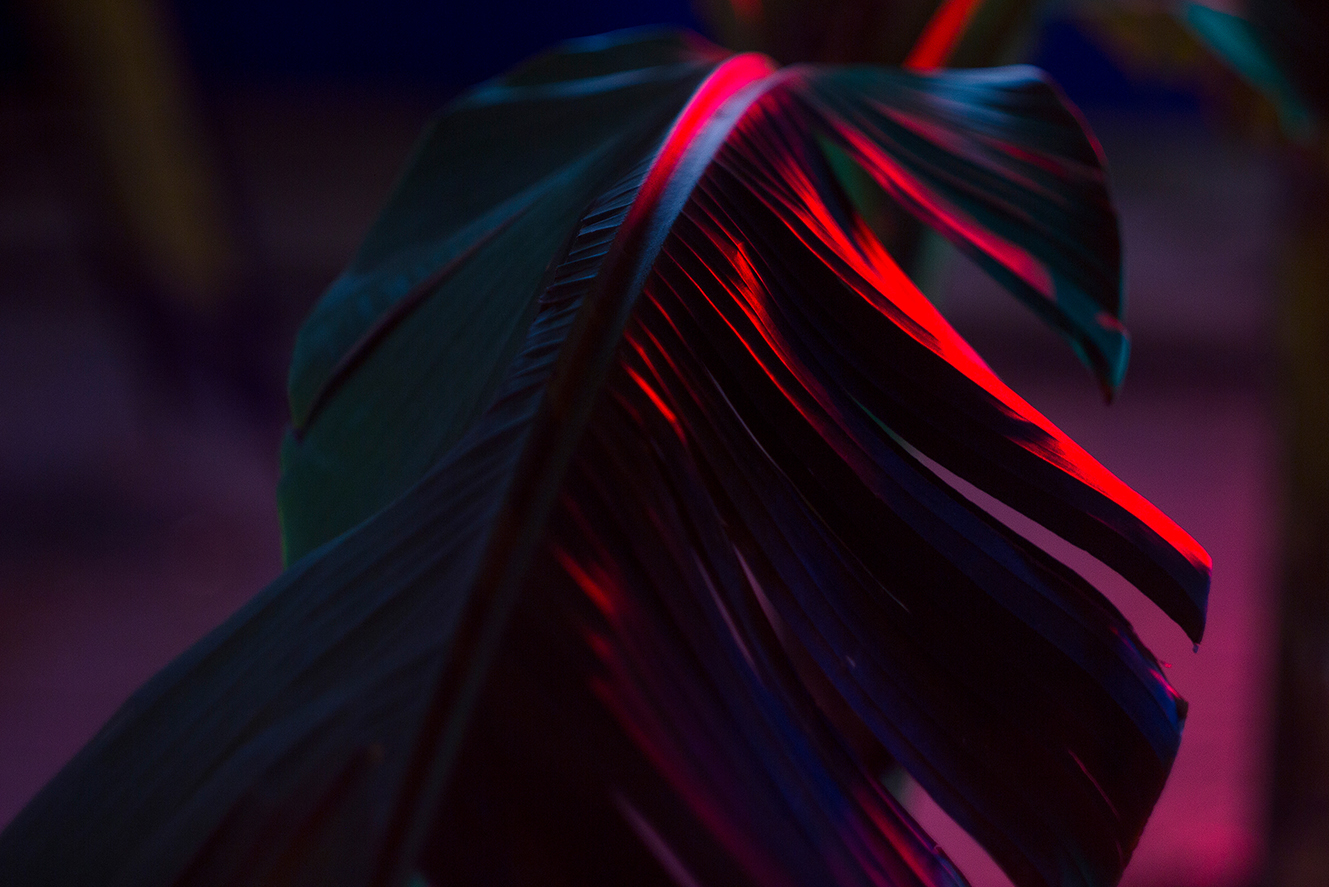
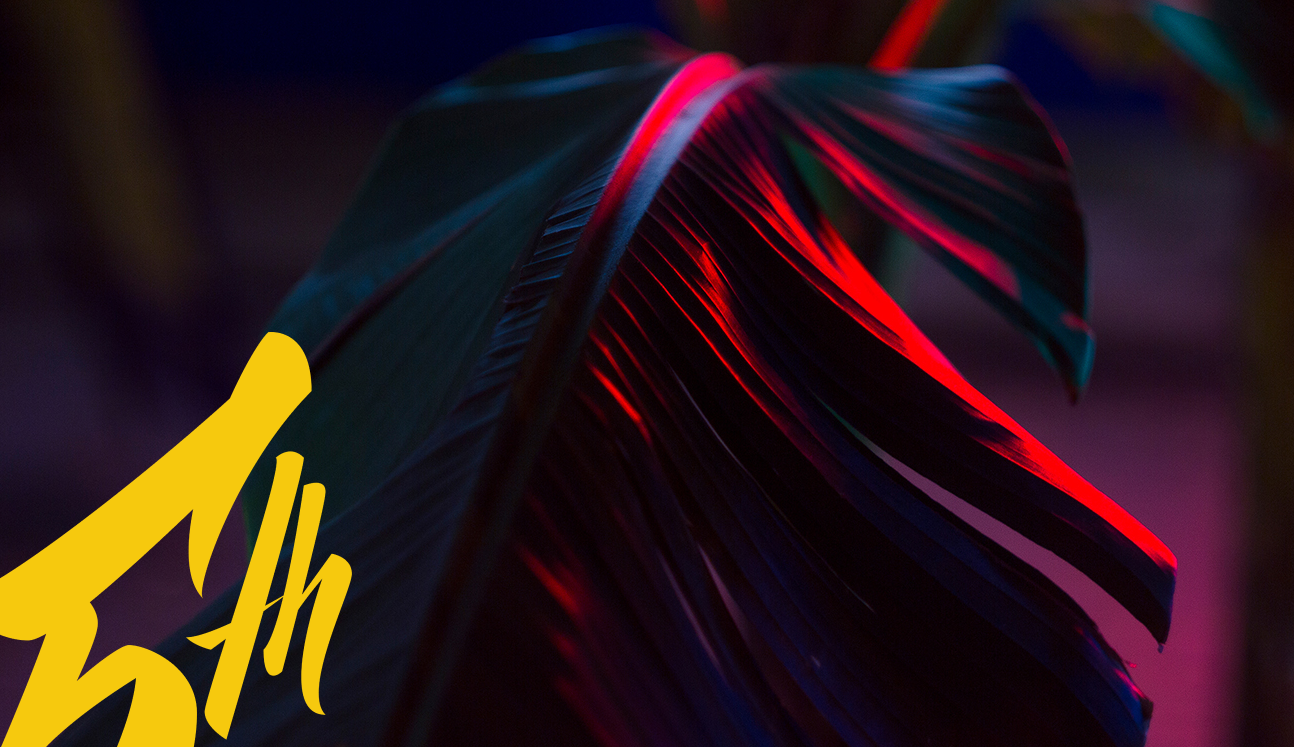
Make abount slide

diff --git a/src/components/NavFooter/NavFooter.js b/src/components/NavFooter/NavFooter.js
@@ -1,24 +1,39 @@
 import React, { Component } from 'react'
+import $ from 'jquery'
+
 
 import './navFooter.css'
 
+import bgImg from "./../../static/img/logo.png"
+
 class SocialLinks extends Component {
+    onLinkClick(e) {
+        let target = $(e.target)
+        let slideNumber = target.data('slideNumber')
+        let activeSlideNumber = $('.footer-navigation-links__link a.active').data('slideNumber')
+        $('.footer-navigation-links__link a').removeClass('active');
+        target.addClass('active')
+        this.props.changeSlide(Number(activeSlideNumber), Number(slideNumber));
+    }
+
 	render () {
 		return (
 			<div className='nav-footer'>
-                <div className='nav-footer__burger-btn'></div>
+                <div className='nav-footer__burger-btn'>
+                    <img src={bgImg} />
+                </div>
                 <div className='nav-footer__navigation'>
                     <ul className='footer-navigation-links'>
                         <li className='footer-navigation-links__link'><a href='#'>PREV</a></li>
-                        <li className='footer-navigation-links__link'><a className="active" href='#'>01</a></li>
-                        <li className='footer-navigation-links__link'><a href='#'>02</a></li>
-                        <li className='footer-navigation-links__link'><a href='#'>03</a></li>
-                        <li className='footer-navigation-links__link'><a href='#'>04</a></li>
-                        <li className='footer-navigation-links__link'><a href='#'>05</a></li>
-                        <li className='footer-navigation-links__link'><a href='#'>06</a></li>
-                        <li className='footer-navigation-links__link'><a href='#'>07</a></li>
-                        <li className='footer-navigation-links__link'><a href='#'>08</a></li>
-                        <li className='footer-navigation-links__link'><a href='#'>09</a></li>
+                        <li className='footer-navigation-links__link' onClick={this.onLinkClick.bind(this)} ><a data-slide-number="1" className="active" href='#'>01</a></li>
+                        <li className='footer-navigation-links__link' onClick={this.onLinkClick.bind(this)}><a data-slide-number="2" href='#'>02</a></li>
+                        <li className='footer-navigation-links__link' onClick={this.onLinkClick.bind(this)}><a data-slide-number="3" href='#'>03</a></li>
+                        <li className='footer-navigation-links__link' onClick={this.onLinkClick.bind(this)}><a data-slide-number="4" href='#'>04</a></li>
+                        <li className='footer-navigation-links__link' onClick={this.onLinkClick.bind(this)}><a data-slide-number="5" href='#'>05</a></li>
+                        <li className='footer-navigation-links__link' onClick={this.onLinkClick.bind(this)}><a data-slide-number="6" href='#'>06</a></li>
+                        <li className='footer-navigation-links__link' onClick={this.onLinkClick.bind(this)}><a data-slide-number="7" href='#'>07</a></li>
+                        <li className='footer-navigation-links__link' onClick={this.onLinkClick.bind(this)}><a data-slide-number="8" href='#'>08</a></li>
+                        <li className='footer-navigation-links__link' onClick={this.onLinkClick.bind(this)}><a data-slide-number="9" href='#'>09</a></li>
                         <li className='footer-navigation-links__link'><a href='#'>NEXT</a></li>
                     </ul>
                 </div>

diff --git a/src/components/App/App.js b/src/components/App/App.js
@@ -3,17 +3,55 @@ import LoadingSlide from './../slides/Loading/LoadingSlide'
 import AboutSlide from './../slides/About/AboutSlide'
 import SocialLinks from './../SocialLinks/SocialLinks'
 import NavFooter from './../NavFooter/NavFooter'
+import OurGoalsSlide from './../slides/OurGoals/OurGoalsSlide'
+import $ from 'jquery'
 
 import './app.css'
 
 
 class App extends Component {
+    componentDidMount() {
+        $('.slide').fadeOut(0);
+        //$('.about-slide').fadeIn(500);
+        $('.slide').height($('.wrapper').height() + 20);
+        $('.social-links').height($('.wrapper').height() + 20);
+    }
+
+    endLoading() {
+        $('.social-links').fadeIn(1);
+        $('.nav-footer').fadeIn(1);
+        $('.about-slide').fadeIn(1);
+        $('.loading-slide').fadeOut(500);
+
+
+        setTimeout(() => {$('.loading-slide').addClass('hidden')}, 1000);
+    }
+    
+    changeSlide(activeSlideNuber, newSlideNumber) {
+        let slides = $('.slide')
+        for (let i = 0; i < slides.length; i++) {
+            let number = $(slides[i]).data('slideNumber')
+            if (number == activeSlideNuber) {
+                $(slides[i]).fadeOut(500)
+            }
+            if (number == newSlideNumber) {
+                $(slides[i]).fadeIn(500)
+            }
+            debugger
+        }
+    }
+
     render() {
         return (
             <div>
-                <SocialLinks />
-                <AboutSlide />
-                <NavFooter />
+                <LoadingSlide endLoading={this.endLoading} />
+                <div className='main-content'>
+                    <div className='wrapper'>
+                        <SocialLinks />
+                        <AboutSlide />
+                    </div>
+                    <NavFooter changeSlide={this.changeSlide}/>
+                </div>
             </div>
         )
     }

diff --git a/src/components/slides/About/AboutSlide.js b/src/components/slides/About/AboutSlide.js
@@ -3,11 +3,48 @@ import $ from 'jquery'
 
 import './aboutSlide.css'
 
+import aboutBg from './../../../static/img/about-page-bg.png'
+import eyeImg from './../../../static/img/eye.png'
+import yellowLogo from './../../../static/img/yellow-logo.png'
+
 class AboutSlide extends Component {
 	render () {
 		return (
-			<div className="about-slide">
-			
+			<div className="about-slide slide slide-1" data-slide-number="1">
+				<div className="about-slide__left-column">
+					<div className="progress-line">
+						<span className="slide_number">01</span>
+						<div className="load__line">
+							<div className="load__line_progress"></div>	
+						</div>
+						<span className="slide_number">02</span>
+					</div>
+					<div className="about-slide_text">
+						<p>
+							Ante leo quis diam cubilia Mauris tempus non non rutrum dui diam etiam parturient tellus donec class mus dis. Tortor.
+						</p>
+						<p>
+							Maecenas torquent cubilia, eu taciti nulla in suspendisse blandit montes sodales, nulla torquent pharetra rutrum ut tellus convallis. Mi tempor.
+						</p>
+						<p>
+							Mauris ridiculus litora vulputate curabitur ullamcorper egestas consectetuer sed sit montes quisque tempor. Facilisis felis. Netus. Erat ultrices gravida. Ipsum.
+						</p>
+					</div>
+				</div>		
+				<div className="about-slide__right-column">
+					<div className="about-slide__right-column_eye">
+						<img src={eyeImg} />
+					</div>
+					<div className="about-slide__right-column_title">
+						<p className="abount-slide__title">
+							SOMETHING <br />
+							ABOUT US
+						</p>
+					</div>
+				</div>		
+				<div className="about-slide__big-logo_yellow">
+					<img src={yellowLogo} />
+				</div>
 			</div>
 		)
 	}

diff --git a/src/components/slides/About/aboutSlide.css b/src/components/slides/About/aboutSlide.css
@@ -2,5 +2,80 @@
     background: url('./../../../static/img/about-page-bg.png') no-repeat 50% 50%;
     background-size: cover;
     width: 100%;
-    height: 100vh;
+    display: flex;
+    align-items: center;
+    justify-content: space-around;
+}
+
+.about-slide__left-column,
+.about-slide__right-column {
+    width: 50%;
+    height: 100%;
+    text-align: center;
+}
+
+.about-slide__left-column {
+    padding-left: 80px;
+}
+
+.progress-line {
+    display: flex;
+    align-items: center;
+    margin: 0 auto;
+    justify-content: space-around;
+    margin-top: 70px;
+}
+
+.load__line {
+    width: 60%;
+    height: 5px;
+    border-radius: 2px;
+    background-color: rgba(180, 162, 157, 0.5);
+}
+
+.load__line_progress {
+    height: 100%;
+    width: 30%;
+    background-color: rgb(218, 233, 17);
+    border-radius: inherit;
+}
+
+.slide_number {
+    color: white;
+    font-size: 20px;
+}
+
+.about-slide_text {
+    margin-top: 45px;
+    border-radius: 10px;
+    padding: 20px;
+    background-color:rgba(255, 255, 255, 0.06);
+    color: white;
+    width: 60%;
+    margin: 70px auto;
+    box-shadow: 0 0 20px 1px rgba(0,0,0,0.5); /* Параметры тени */
+    padding: 10px;
+    /*-webkit-filter: blur(5px);
+     -moz-filter: blur(5px);
+       -o-filter: blur(5px);
+      -ms-filter: blur(5px);
+          filter: blur(5px);*/
+}
+
+.about-slide__right-column_eye {
+    margin-top: 70px;
+}
+
+.abount-slide__title {
+    color: white;
+    font-size: 50px;
+}
+
+.about-slide__big-logo_yellow {
+    display: none;
+    position: absolute;
+    left: -20px;
+    height: 150px;
+    width: 100px;
+    z-index: 10;
 }

diff --git a/src/components/NavFooter/navFooter.css b/src/components/NavFooter/navFooter.css
@@ -1,7 +1,5 @@
 .nav-footer {
     display: flex;
-    position: absolute;
-    bottom: 0;
     width: 100%;
     align-items: flex-end;
     box-sizing: border-box;
@@ -19,11 +17,22 @@
 
 .nav-footer__burger-btn {
     flex: none;
+    display: flex;
+    justify-content: center;
+    align-items: center;
     background-color: #c4c4c4;
     height: 120px;
-    width: 120px !important;
+    width: 120px;
     z-index: 200;
+    padding: 25px;
 }
+
+.nav-footer__burger-btn img {
+    width: 100%;
+    height: 100%;
+}
+
+
 
 .footer-navigation-links {
     list-style-type: none;

diff --git a/src/components/slides/Loading/LoadingSlide.js b/src/components/slides/Loading/LoadingSlide.js
@@ -15,18 +15,20 @@ class MainSlide extends Component {
 				clearInterval(intervalId)
 				$('.loading__line').fadeOut(1000)
 				$('.loading__caption').fadeIn(1500)
+				debugger
+				this.props.endLoading();
 			} else {
 				$progress.css({
 					width: width + loadingStep + '%',
 				})
 			}
 			
-		}, 250);
+		}.bind(this), 250);
 	}
 
 	render () {
 		return (
-			<div className="main-slide">
+			<div className="loading-slide">
 				<div className="loading">
 					<div className="loading__line">
 						<div className="loading__line_progress"></div>	

diff --git a/src/components/App/app.css b/src/components/App/app.css
@@ -1,3 +1,22 @@
 .hidden {
     display: none;
 }
+
+.main-content {
+    display: flex;
+    flex-direction: column;
+    width: 100%;
+    height: 100vh;
+    justify-content: space-between;
+}
+
+.wrapper {
+    display: flex;
+    flex: 1 0 auto;
+}
+
+*, *:before, *:after{ 
+    box-sizing: border-box; 
+    -moz-box-sizing: border-box; 
+    -webkit-border-sizing: border-box; 
+}

diff --git a/src/components/SocialLinks/socialLinks.css b/src/components/SocialLinks/socialLinks.css
@@ -1,7 +1,5 @@
 .social-links {
-  float: left;
   width: 100px;
-  height: 100vh;
   background: url("./../../static/img/social-links-bg.png") no-repeat;
   background-color: #303841;
   background-size: cover; 
@@ -9,6 +7,8 @@
   flex-direction: column;
   justify-content: center;
   align-items: center;
+  transition: transform 0.5s;
+  z-index: 100;
 }
 
 .social-links div {

diff --git a/src/components/slides/OurGoals/OurGoalsSlide.js b/src/components/slides/OurGoals/OurGoalsSlide.js
@@ -1,0 +1,16 @@
+import React, { Component } from 'react'
+import $ from 'jquery'
+
+import './ourGoalsSlide.css'
+
+class OurGoalsSlide extends Component {
+	render () {
+		return (
+			<div className="our-goals-slide slide slide-2" data-slide-number="2">
+
+			</div>
+		)
+	}
+}
+
+export default OurGoalsSlide;

diff --git a/src/components/slides/Loading/loadingSlide.css b/src/components/slides/Loading/loadingSlide.css
@@ -3,7 +3,7 @@
     src: url('./../../../static/fonts/Andamar/Andamar.ttf');
 }
 
-.main-slide {
+.loading-slide {
     background: url('./../../../static/img/image.png') no-repeat 50% 50%;
     background-size: cover;
     width: 100%;

diff --git a/src/components/slides/OurGoals/ourGoalsSlide.css b/src/components/slides/OurGoals/ourGoalsSlide.css
@@ -1,0 +1,6 @@
+.our-goals-slide {
+    background: url('./../../../static/img/image.png') no-repeat 50% 50%;
+    background-size: cover;
+    width: 100%;
+    height: 100vh;
+}
